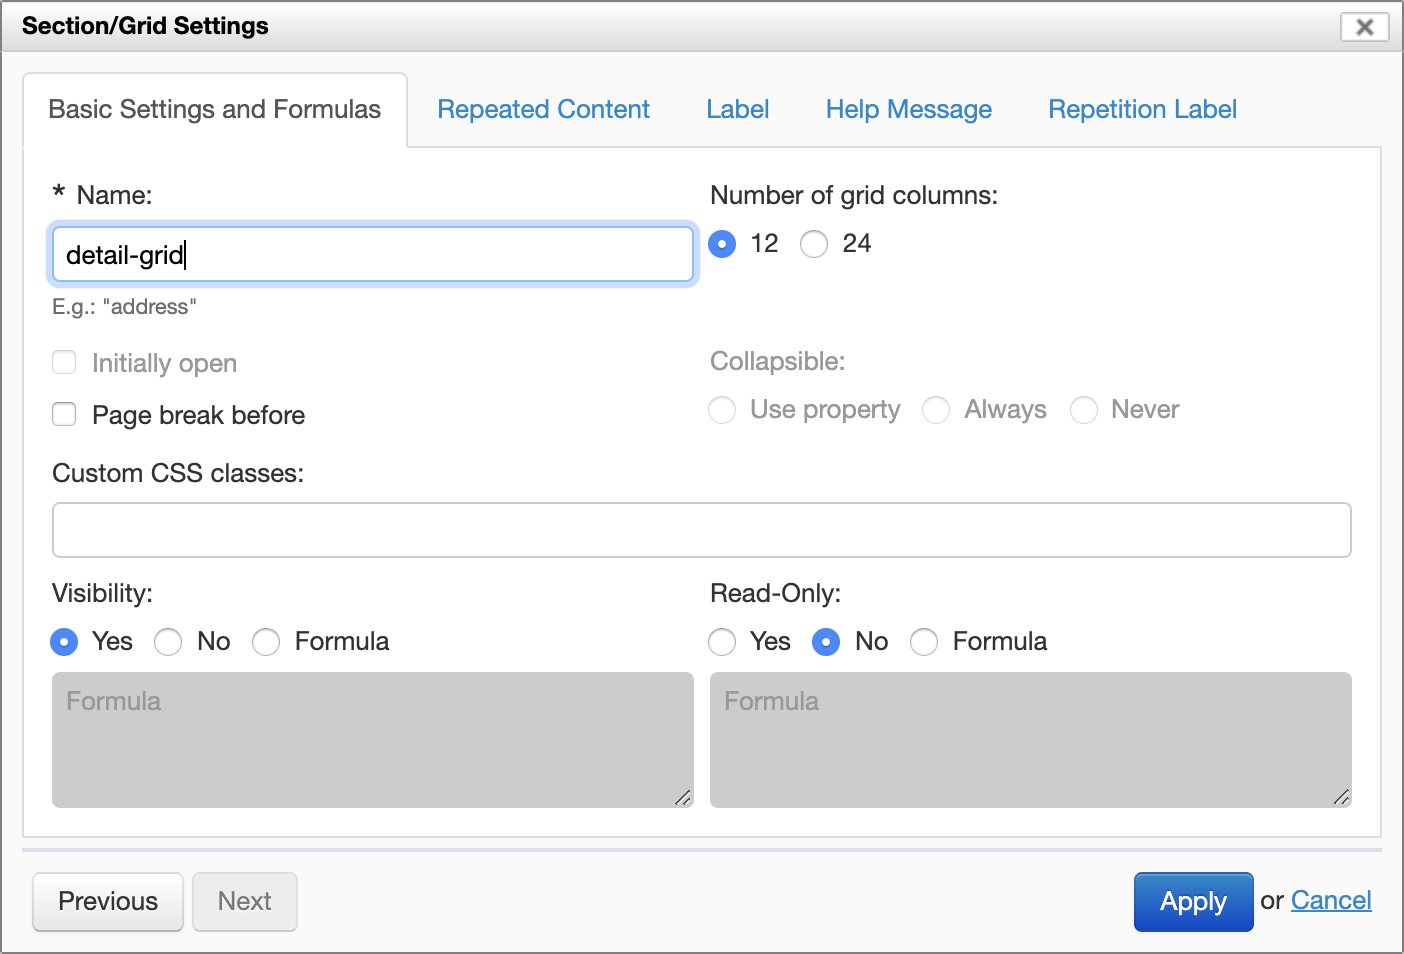
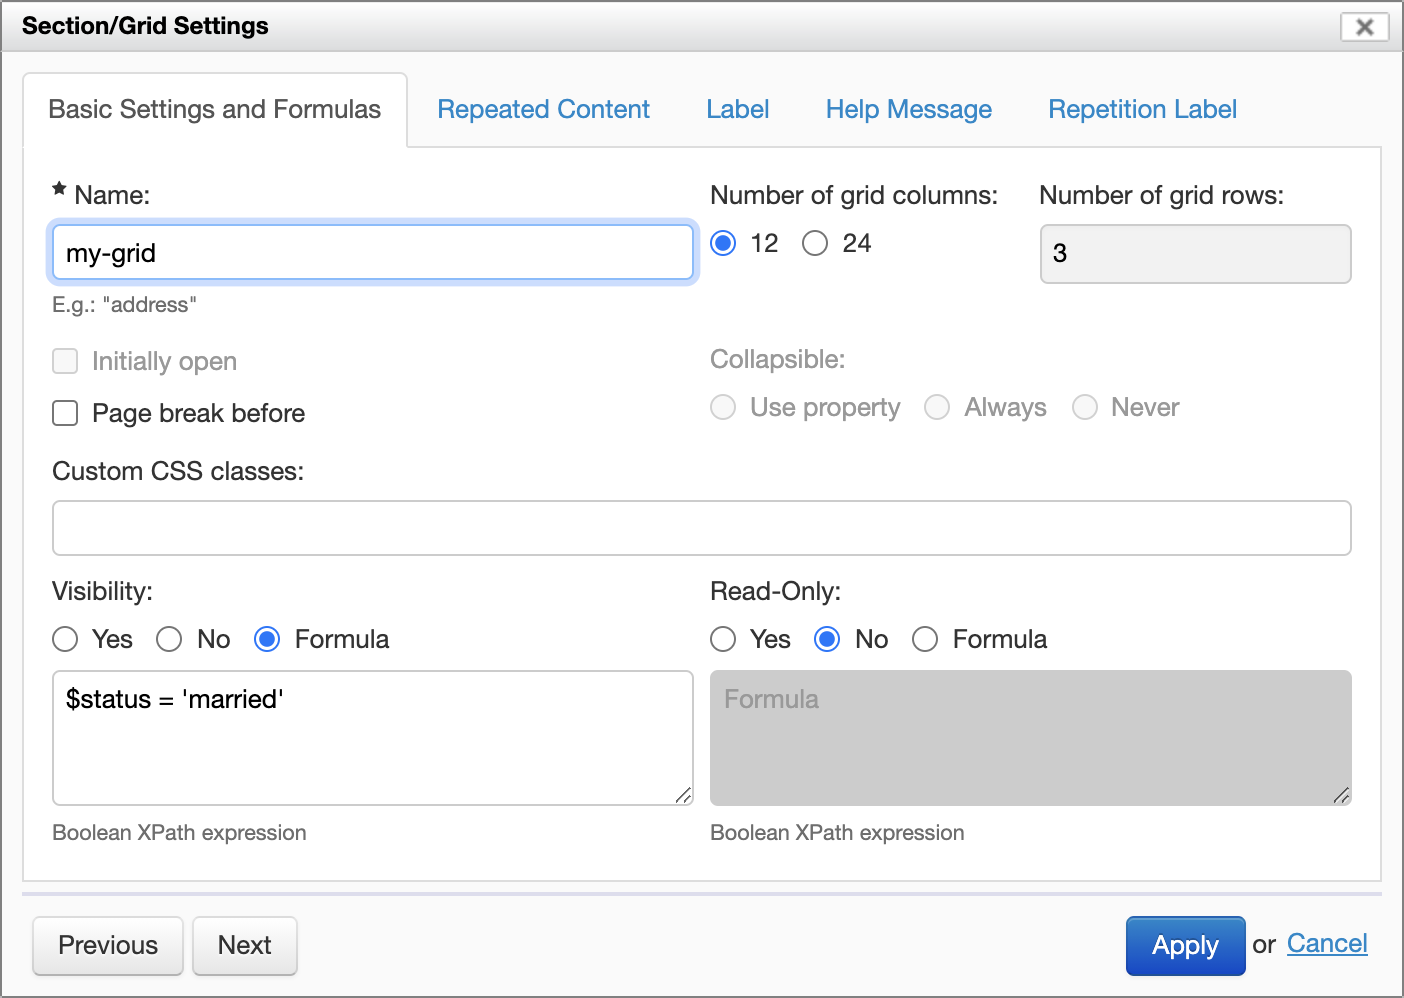
Grid settings: Number of grid rows

diff --git a/form-builder/grid-settings.md b/form-builder/grid-settings.md
@@ -26,6 +26,14 @@ The default remains 12 columns. To change to 24 columns, choose the "24" option.
 
 When going from 12 to 24 columns, the grid cells positions and widths are adjusted so that the grid looks the same. Similarly, when going from 24 to 12 columns, the grid cells positions and widths are adjusted so that the grid looks the same. However, if the grid contains controls whose position or width does not allow migrating the grid back to 12 columns, the "12" option is disabled.
 
+### Number of grid rows
+
+[SINCE Orbeon Forms 2021.1]
+
+The dialog shows the current number of grid rows. This is the "static" number of grid rows, independently of the number of grid repetitions in the case of repeated grids.
+
+See also [Enhancements to grids](https://blog.orbeon.com/2021/09/enhancements-to-repeated-grids.html).
+
 ## See also
 
 - [Section and grid settings](container-settings.md)
@@ -36,3 +44,4 @@ When going from 12 to 24 columns, the grid cells positions and widths are adjust
 - [Section component](/form-runner/component/section.md)
 - [Template syntax](template-syntax.md)
 - [Wizard view](/form-runner/feature/wizard-view.md)
+- Blog post: [Enhancements to grids](https://blog.orbeon.com/2021/09/enhancements-to-repeated-grids.html)

diff --git a/form-builder/repeated-grids.md b/form-builder/repeated-grids.md
@@ -36,7 +36,7 @@ Once a grid is inserted, you can edit its properties with the "Grid Settings" ic
 
 *NOTE: Since Orbeon Forms 4.8, these settings (correctly) apply to the entire grid. Previously, the grid's repeat headers did not hide properly for example when the grid was hidden. See issue [#635](https://github.com/orbeon/orbeon-forms/issues/635).*
 
-![Basic Settings and Formulas](images/repeated-grid-settings-basic.png)
+![Basic Settings and Formulas](images/grid-settings.png)
 
 [SINCE Orbeon Forms 2019.1]
 
